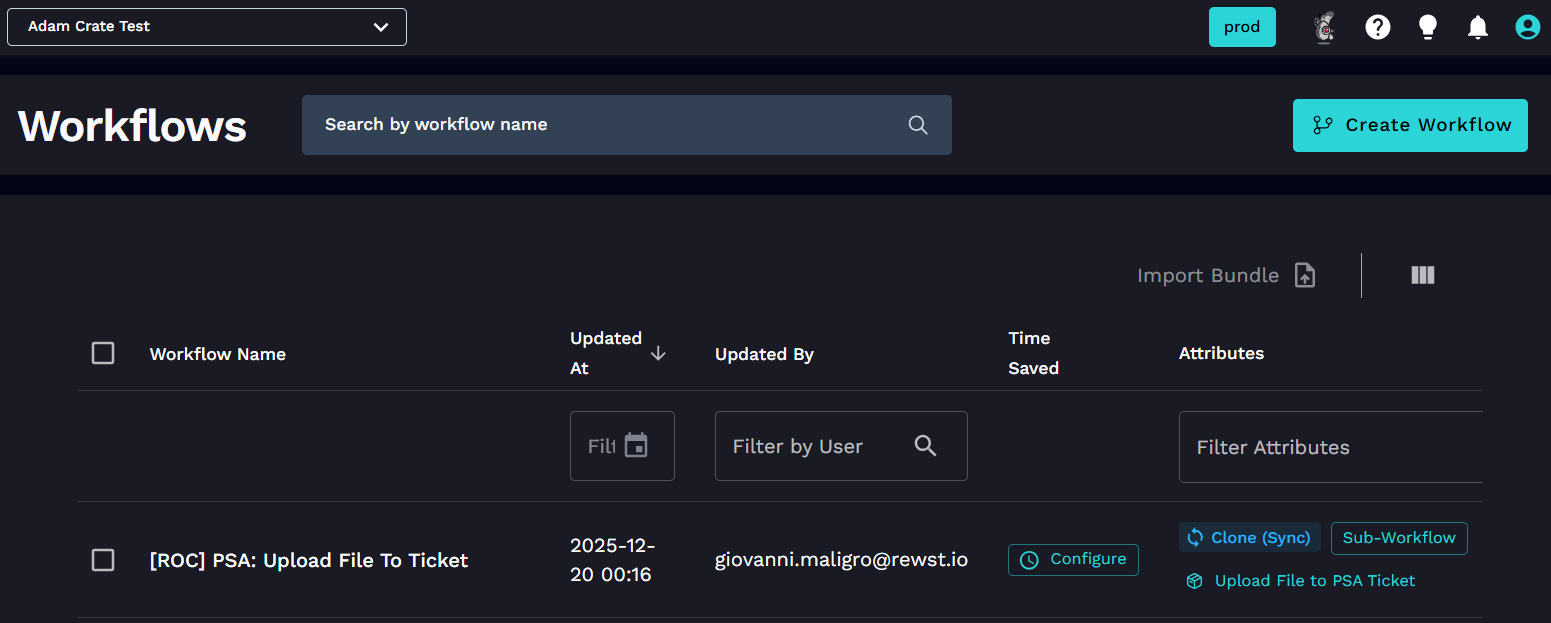
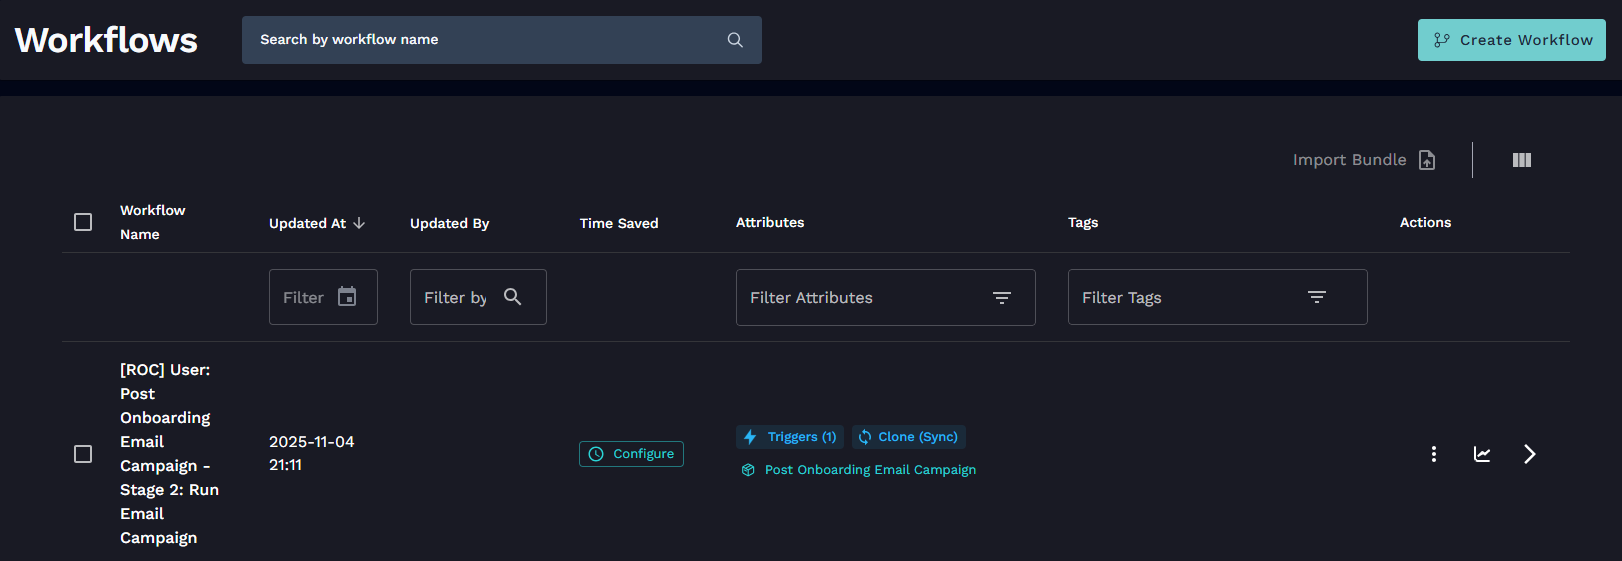
DocsUpdate-1992: giovanni.maligro's Nov 3 changes: Post Onboarding Email Campaign Crate

diff --git a/documentation/crates/existing-crate-documentation/post-onboarding-email-campaign-crate.md b/documentation/crates/existing-crate-documentation/post-onboarding-email-campaign-crate.md
@@ -1,0 +1,54 @@
+# Post Onboarding Email Campaign Crate
+
+{% hint style="info" %}
+If you’re new to Crates, read through our introductory Crate documentation [here](https://docs.rewst.help/prebuilt-automations/crates). Find the Crate in our Crate Marketplace.
+{% endhint %}
+
+Our Post Onboarding Email Campaign Crate enhances the onboarding process by sending templated emails to new users at specific intervals. The emails will be based on predefined campaigns, and the workflow will dynamically select a campaign template based on the start date of the new user.
+
+* Creates a variable for newly onboarded users that captures their start date and the campaign they should be a part of
+* Chooses the appropriate campaign template based on the new user's start date
+* Sends out 30-day and 60-day welcome emails based on the captured start date and selected campaign template
+
+1. Navigate to **Crates** > **Crate Marketplace** in the left side menu of your Rewst platform.
+2.  Search for `Post Onboarding Email Campaign`.\
+    &#x20; 
+
+    <div align="left"><figure><img src="../../../.gitbook/assets/image (295).png" alt=""><figcaption></figcaption></figure></div>
+3. Click on the Crate tile to begin unpacking.
+4. Click **Unpack Crate**.
+5. Click **Continue**.
+6. Ensure that **Enabled** is toggled on for the **Cron Job** accordion menu under **Configure Triggers**. Note that you have the option to activate the Crate for all future organizations in addition to the current one. You may also set activation to certain [tags](../../settings/tags-in-rewst.md), and set [trigger criteria](../../automations/intro-to-triggers/trigger-criteria.md) or [integration overrides](../../automations/intro-to-triggers/).
+7. Click **Unpack**.
+
+### Test the Crate
+
+To test this Crate, you'll need to adjust the cron trigger's schedule to a few minutes in the future, then adjust it back to your regular schedule after the test. Alternatively, you could wait until the regularly scheduled run occurs and check your result, which would not require you to update the cron trigger schedule.
+
+1. Navigate to **Automations > Workflows** in the left side menu of your Rewst platform.
+2.  Search for `[ROC] User: Post Onboarding Email Campaign - Stage 2: Run Email Campaign`.<br>
+
+    <figure><img src="../../../.gitbook/assets/image (298).png" alt=""><figcaption></figcaption></figure>
+3.  Click on the workflow to view it in the Workflow Builder.<br>
+
+    <figure><img src="../../../.gitbook/assets/image (299).png" alt=""><figcaption></figcaption></figure>
+4. Adjust the cron trigger's schedule to five minutes from your current time. The workflow will run on its own. Check if emails were sent as expected.
+
+#### Update the cron trigger schedule
+
+The Crate runs on a cron trigger, and will execute the workflow to generate the ticket at the same time each day. You can adjust the chosen time for execution in the workflow itself. Edit a cron trigger in the workflow to change the timing of when it will routinely run.
+
+1. Navigate to **Automations > Workflows**.
+2. Search for  `[ROC] User: Post Onboarding Email Campaign - Stage 2: Run Email Campaign`.
+3. Click on the workflow to open it in the Workflow Builder.
+4.  Click <img src="../../../.gitbook/assets/image (205).png" alt="" data-size="line"> to open the edit trigger menu.
+
+
+
+    <figure><img src="../../../.gitbook/assets/image (268).png" alt=""><figcaption></figcaption></figure>
+5. Update the timing of the cron trigger as desired in the fields under **Trigger Parameters**. Note that when entering the time into the **Cron Schedule** field, the correct format is minutes followed by hour. For example, 18 3, not 3 18.
+6. Click **Submit**.
+
+{% hint style="info" %}
+Got an idea for a new Crate? Rewst is constantly adding new Crates to our Crate Marketplace. Submit your idea or upvote existing ideas here in our [Canny feedback collector](https://rewst.canny.io/crates).
+{% endhint %}

diff --git a/SUMMARY.md b/SUMMARY.md
@@ -280,6 +280,7 @@
     * [On-Premises Active Directory Password Expiration Alerts Crate](documentation/crates/existing-crate-documentation/on-premises-active-directory-password-expiration-alerts-crate.md)
     * [OpenText Core Endpoint Protection: Create Ticket from File Detection Crate](documentation/crates/existing-crate-documentation/opentext-core-endpoint-protection-create-ticket-from-file-detection-crate.md)
     * [Organizational Setup Report Crate](documentation/crates/existing-crate-documentation/organizational-setup-report-crate.md)
+    * [Post Onboarding Email Campaign Crate](documentation/crates/existing-crate-documentation/post-onboarding-email-campaign-crate.md)
     * [Prompt to Combine Similar Tickets Crate](documentation/crates/existing-crate-documentation/prompt-to-combine-similar-tickets-crate.md)
     * [PSA: Update Ticket with User Offboard Links Crate](documentation/crates/existing-crate-documentation/psa-update-ticket-with-user-offboard-links-crate.md)
     * [PSA: Update Ticket With User Onboard Links Crate](documentation/crates/existing-crate-documentation/psa-update-ticket-with-user-onboard-links-crate.md)

diff --git a/documentation/crates/existing-crate-documentation/alert-on-onboard-offboard-execution-crate.md b/documentation/crates/existing-crate-documentation/alert-on-onboard-offboard-execution-crate.md
@@ -33,7 +33,7 @@ To choose the email where the notification will be sent, you must set the [organ
 2.  Search for `Alert on Onboard/Offboard Execution`.
 
     \
-    ![](<../../../.gitbook/assets/image (1).png>)
+    ![](<../../../.gitbook/assets/image (1) (2).png>)
 3. Click on the Crate tile to begin unpacking.
 4. Click **Unpack Crate**.
 5. Click **Continue**.&#x20;
@@ -41,7 +41,7 @@ To choose the email where the notification will be sent, you must set the [organ
 
 
 
-    <figure><img src="../../../.gitbook/assets/image (1) (2).png" alt=""><figcaption></figcaption></figure>
+    <figure><img src="../../../.gitbook/assets/image (1) (2) (2).png" alt=""><figcaption></figcaption></figure>
 7. Click **Unpack**.
 
 ### Additional setup steps: Make the completion handler

diff --git a/documentation/crates/existing-crate-documentation/upload-file-to-psa-ticket-crate.md b/documentation/crates/existing-crate-documentation/upload-file-to-psa-ticket-crate.md
@@ -53,7 +53,7 @@ This Crate requires one or more of the following PSAs to be successfully integra
 
 
 
-    <figure><img src="../../../.gitbook/assets/image.png" alt=""><figcaption></figcaption></figure>
+    <figure><img src="../../../.gitbook/assets/image (1).png" alt=""><figcaption></figcaption></figure>
 3. Click on the workflow to view it in the Workflow Builder.&#x20;
 4. Click **Test** in the top right corner of the Workflow Builder Canvas.
 5. Fill in the following fields:
